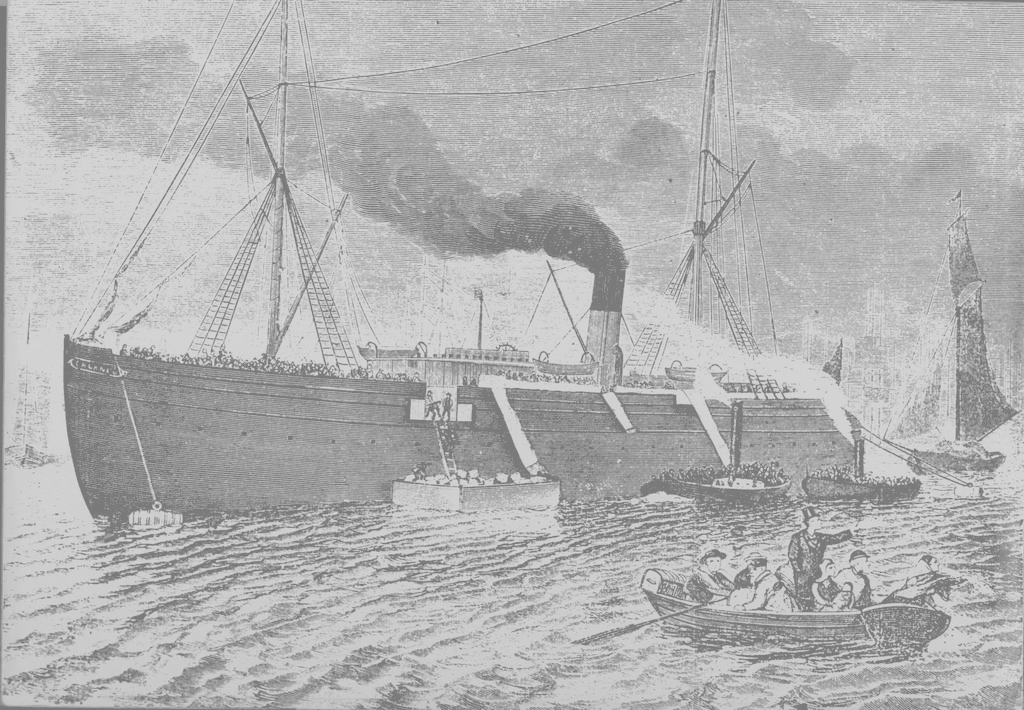
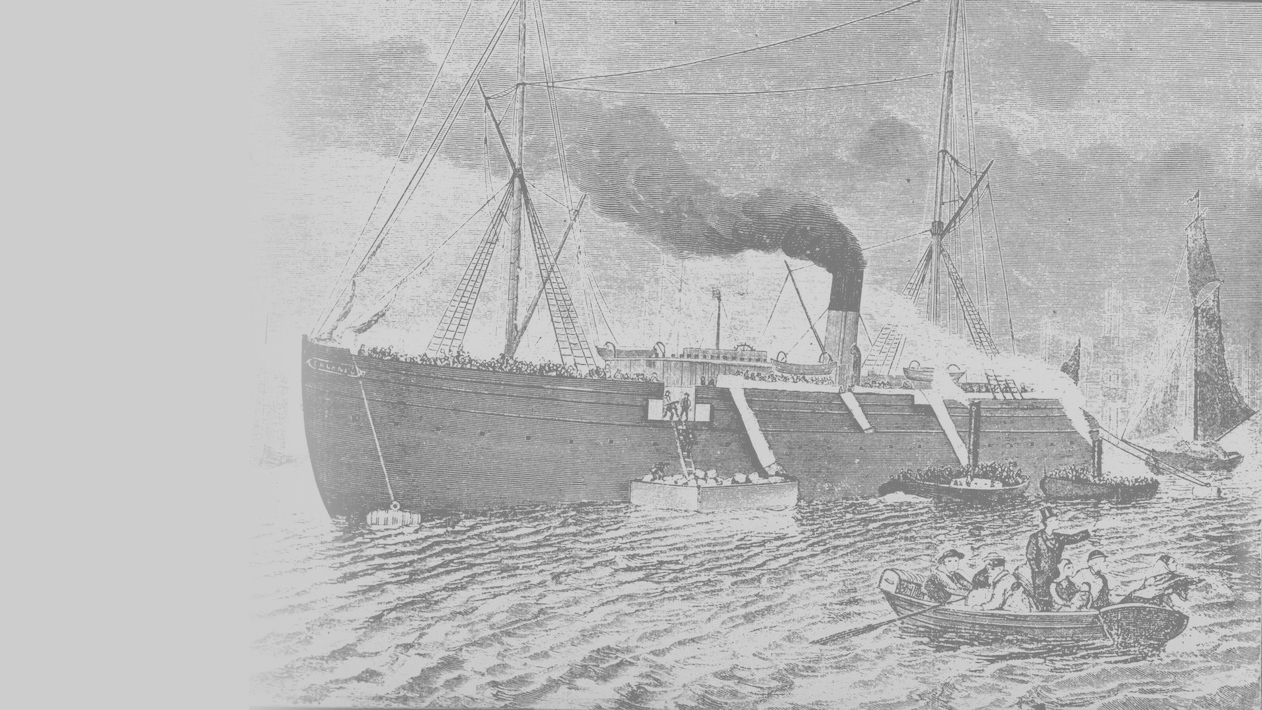
Added credit button & zoom functionality, zoom still off

diff --git a/adventure-game/core/src/edu/augustana/csc285/game/SlideScreen.java b/adventure-game/core/src/edu/augustana/csc285/game/SlideScreen.java
@@ -7,6 +7,7 @@ import com.badlogic.gdx.Gdx;
 import com.badlogic.gdx.Screen;
 import com.badlogic.gdx.graphics.GL20;
 import com.badlogic.gdx.graphics.Texture;
+import com.badlogic.gdx.graphics.g2d.TextureRegion;
 import com.badlogic.gdx.math.Vector2;
 import com.badlogic.gdx.scenes.scene2d.Event;
 import com.badlogic.gdx.scenes.scene2d.EventListener;
@@ -23,6 +24,8 @@ import com.badlogic.gdx.scenes.scene2d.ui.TextButton;
 import com.badlogic.gdx.scenes.scene2d.ui.TextTooltip;
 import com.badlogic.gdx.scenes.scene2d.ui.TooltipManager;
 import com.badlogic.gdx.scenes.scene2d.utils.ClickListener;
+import com.badlogic.gdx.scenes.scene2d.utils.Drawable;
+import com.badlogic.gdx.scenes.scene2d.utils.TextureRegionDrawable;
 import com.badlogic.gdx.utils.Align;
 
 import edu.augustana.csc285.game.datamodel.ActionChoice;
@@ -41,11 +44,14 @@ public class SlideScreen implements Screen {
 	private Button pauseButton;
 	private Button inventoryButton;
 	private Button muteButton;
+	private Button creditButton;
 	private ArrayList<TextButton> choiceButtons;
 	private ScrollPane scrollPane;
 	private Slider volumeSlider;
 	private Dialog volumeDialog;
 	private Dialog rejectDialog;
+	
+	private Image zoomImage;
 	
 	public SlideScreen(final AdventureGame game) {
 		this.game = game;
@@ -59,48 +65,71 @@ public class SlideScreen implements Screen {
 	 */
 	private void initialize() {
 		game.stage.clear();
-		game.stage.addActor(game.bgImg);
 		
 		// initialize slide contents
 		choiceButtons = new ArrayList<TextButton>();
 		curSlide = game.data.getSlide(game.data.getCurrentSlideIndex());
 
+		// Set the background
+		float size = Gdx.graphics.getHeight();
+		game.bgImg = new Image(new Texture(Gdx.files.internal("slideImages/" + curSlide.getImageFileName())));
+
+		game.bgImg.setSize(size, size);
+		game.bgImg.setPosition(Gdx.graphics.getWidth() - size, 0);
+
+		Vector2 touchPos = new Vector2();
+		int zoomW = 150;
+		int zoomH = 150;
+		
+		if (!curSlide.getImageFileName().equals("facts.png")) {
+			game.bgImg.addListener(new ClickListener() {
+				@Override
+				public boolean mouseMoved(InputEvent event, float x, float y) {
+					int offsetX = zoomW;
+					int offsetY = zoomH;
+					
+					if (offsetX < x || x < game.bgImg.getWidth() - offsetX - zoomW) {
+						offsetX = 0;
+					}
+					
+					if (offsetY < AdventureGame.GAME_SCREEN_HEIGHT - y || AdventureGame.GAME_SCREEN_HEIGHT - y < game.bgImg.getHeight() - offsetY - zoomH) {
+						offsetY = 0;
+					}
+					touchPos.x = x;
+					touchPos.y = AdventureGame.GAME_SCREEN_HEIGHT - y + offsetY;
+					System.out.println(touchPos.x + " " + touchPos.y);
+					if (Gdx.input.getX() >= Gdx.graphics.getWidth() - game.bgImg.getWidth()) {
+						zoomImage.setVisible(true);
+					}
+					zoomImage.setDrawable(new TextureRegionDrawable(
+							new TextureRegion(new Texture(Gdx.files.internal("slideImages/" + curSlide.getImageFileName())),
+							(int) touchPos.x, (int) touchPos.y, zoomW, zoomH)));
+					
+					return true;
+				}
+				
+			});
+		}
+		
+		zoomImage = new Image(new TextureRegion(new Texture(Gdx.files.internal("slideImages/" + curSlide.getImageFileName())),
+																					touchPos.x, touchPos.y, zoomW, zoomH));
+		zoomImage.setVisible(false);
+		zoomImage.setSize(400, 400);
+		zoomImage.setPosition(190, Gdx.graphics.getHeight() - zoomImage.getHeight() - 30);
+		
+		game.stage.addActor(game.bgImg);
 		createFunctionButtons();
 		createTitle();
 		createGameText();
 		createChoiceButtons();
 		createTable();
-
-		// Set the background
-		float size = Gdx.graphics.getHeight();
-		game.bgImg = new Image(new Texture(Gdx.files.internal("slideImages/" + curSlide.getImageFileName())));
-		
-		if (curSlide.getImageFileName().equals("facts.png")) {
-			game.bgImg.setPosition(0, 0);
-			game.bgImg.setSize(Gdx.graphics.getWidth(), Gdx.graphics.getHeight());
-		} else {
-			game.bgImg.setSize(size, size);
-			game.bgImg.setPosition(Gdx.graphics.getWidth() - size - 40, 0);
-			game.bgImg.addListener(new ClickListener() {
-				Vector2 touchPos = new Vector2();
-				@Override
-				public boolean touchDown(InputEvent event, float x, float y, int pointer, int button) {
-					touchPos.x = x;
-					touchPos.y = y;
-					return true;
-				}
-				@Override
-				public void touchDragged(InputEvent event, float x, float y, int pointer) {
-				
-				}
-			});
-		}
 		
 		// Add actors
 		game.stage.addActor(title);
 		game.stage.addActor(table);
 		game.stage.addActor(scrollPane);
 		game.stage.addActor(volumeDialog);
+		game.stage.addActor(zoomImage);
 	}
 
 	public static final int BUTTON_WIDTH = 60;
@@ -187,6 +216,28 @@ public class SlideScreen implements Screen {
 		volumeDialog.setPosition(90, 530);
 		
 		updateMute();
+		
+		
+		// -------------------- credit button ----------------------
+		
+		Image creditImg = new Image(new Texture(Gdx.files.internal("art/icons/creditSMALL.png")));
+		creditButton = new Button(game.skin);
+		creditButton.add(creditImg);
+		creditButton.setWidth(BUTTON_WIDTH);
+		creditButton.setHeight(BUTTON_WIDTH);
+								  //Gdx.graphics.getWidth() - inventoryButton.getWidth() - 10
+		creditButton.setPosition(10,	Gdx.graphics.getHeight() - 4 * BUTTON_WIDTH - 10);
+		creditButton.addListener(new ClickListener() {
+			@Override
+			public void clicked(InputEvent event, float x, float y) {
+				// set the destination of the back button of inventory to
+				// the last slide
+				game.stage.clear();
+				game.setScreen(new CreditsScreen(game));
+			}
+		});
+		creditButton.addListener(new TextTooltip("Credits", tooltip, game.skin));
+		game.stage.addActor(creditButton);
 	}
 
 	//--------------------- mute button --------------------
@@ -330,7 +381,10 @@ public class SlideScreen implements Screen {
 //		game.batch.begin();
 //		game.sprite.draw(game.batch);
 //		game.batch.end();
-			
+		
+		if (Gdx.input.getX() < Gdx.graphics.getWidth() - game.bgImg.getWidth()) {
+			zoomImage.setVisible(false);
+		}
 		
 		game.stage.act(Gdx.graphics.getDeltaTime());
 		game.stage.draw();

diff --git a/adventure-game/core/src/edu/augustana/csc285/game/CreditsScreen.java b/adventure-game/core/src/edu/augustana/csc285/game/CreditsScreen.java
@@ -39,14 +39,19 @@ public class CreditsScreen implements Screen {
 			@Override
 			public void clicked(InputEvent event, float x, float y) {
 				game.stage.clear();
-				game.setScreen(new MainMenuScreen(game));
+				game.setScreen(new SlideScreen(game));
 			}
 		});
 		backButton.setSize(300, 40);
 		backButton.setPosition(500, 130);
 		game.stage.addActor(backButton);
 		
-		String intro = ""
+		String intro =
+				"Game designed by Dr. Forrest Stonedahl's Software Development CSC 285 students and \n"
+				+ "Dr. Brian Leech's history students Abigail Buchanan, Brooks Fielder, and Katie Laschanzky \n"
+				+ "for the for the Swenson Swedish Immigration Research Center at Augustana College in \n"
+				+ "Rock Island, Illinois, 2017.\n\n"
+				+ "Game by Team Curlew: Jack Cannell, Steve Jia, Minh Ta, and Maxwell McComb\n\n"
 				+ "QA Testers:\n\n"
 				+ "     Thinh Nguyen\n"
 				+ "     Neo Hoang\n"

diff --git a/adventure-game/core/src/edu/augustana/csc285/game/MainMenuScreen.java b/adventure-game/core/src/edu/augustana/csc285/game/MainMenuScreen.java
@@ -210,6 +210,7 @@ public class MainMenuScreen implements Screen {
 	private void drawBackgroundAndLogo() {
 		Image bg = new Image(new Texture(Gdx.files.internal("slideImages/mainmenu2.jpg")));
 		bg.setSize(Gdx.graphics.getWidth(), Gdx.graphics.getHeight());
+		bg.setPosition(0, 0);
 		game.stage.addActor(bg);
 		game.stage.addActor(game.logo);
 		game.stage.addActor(game.swansonLogo);
